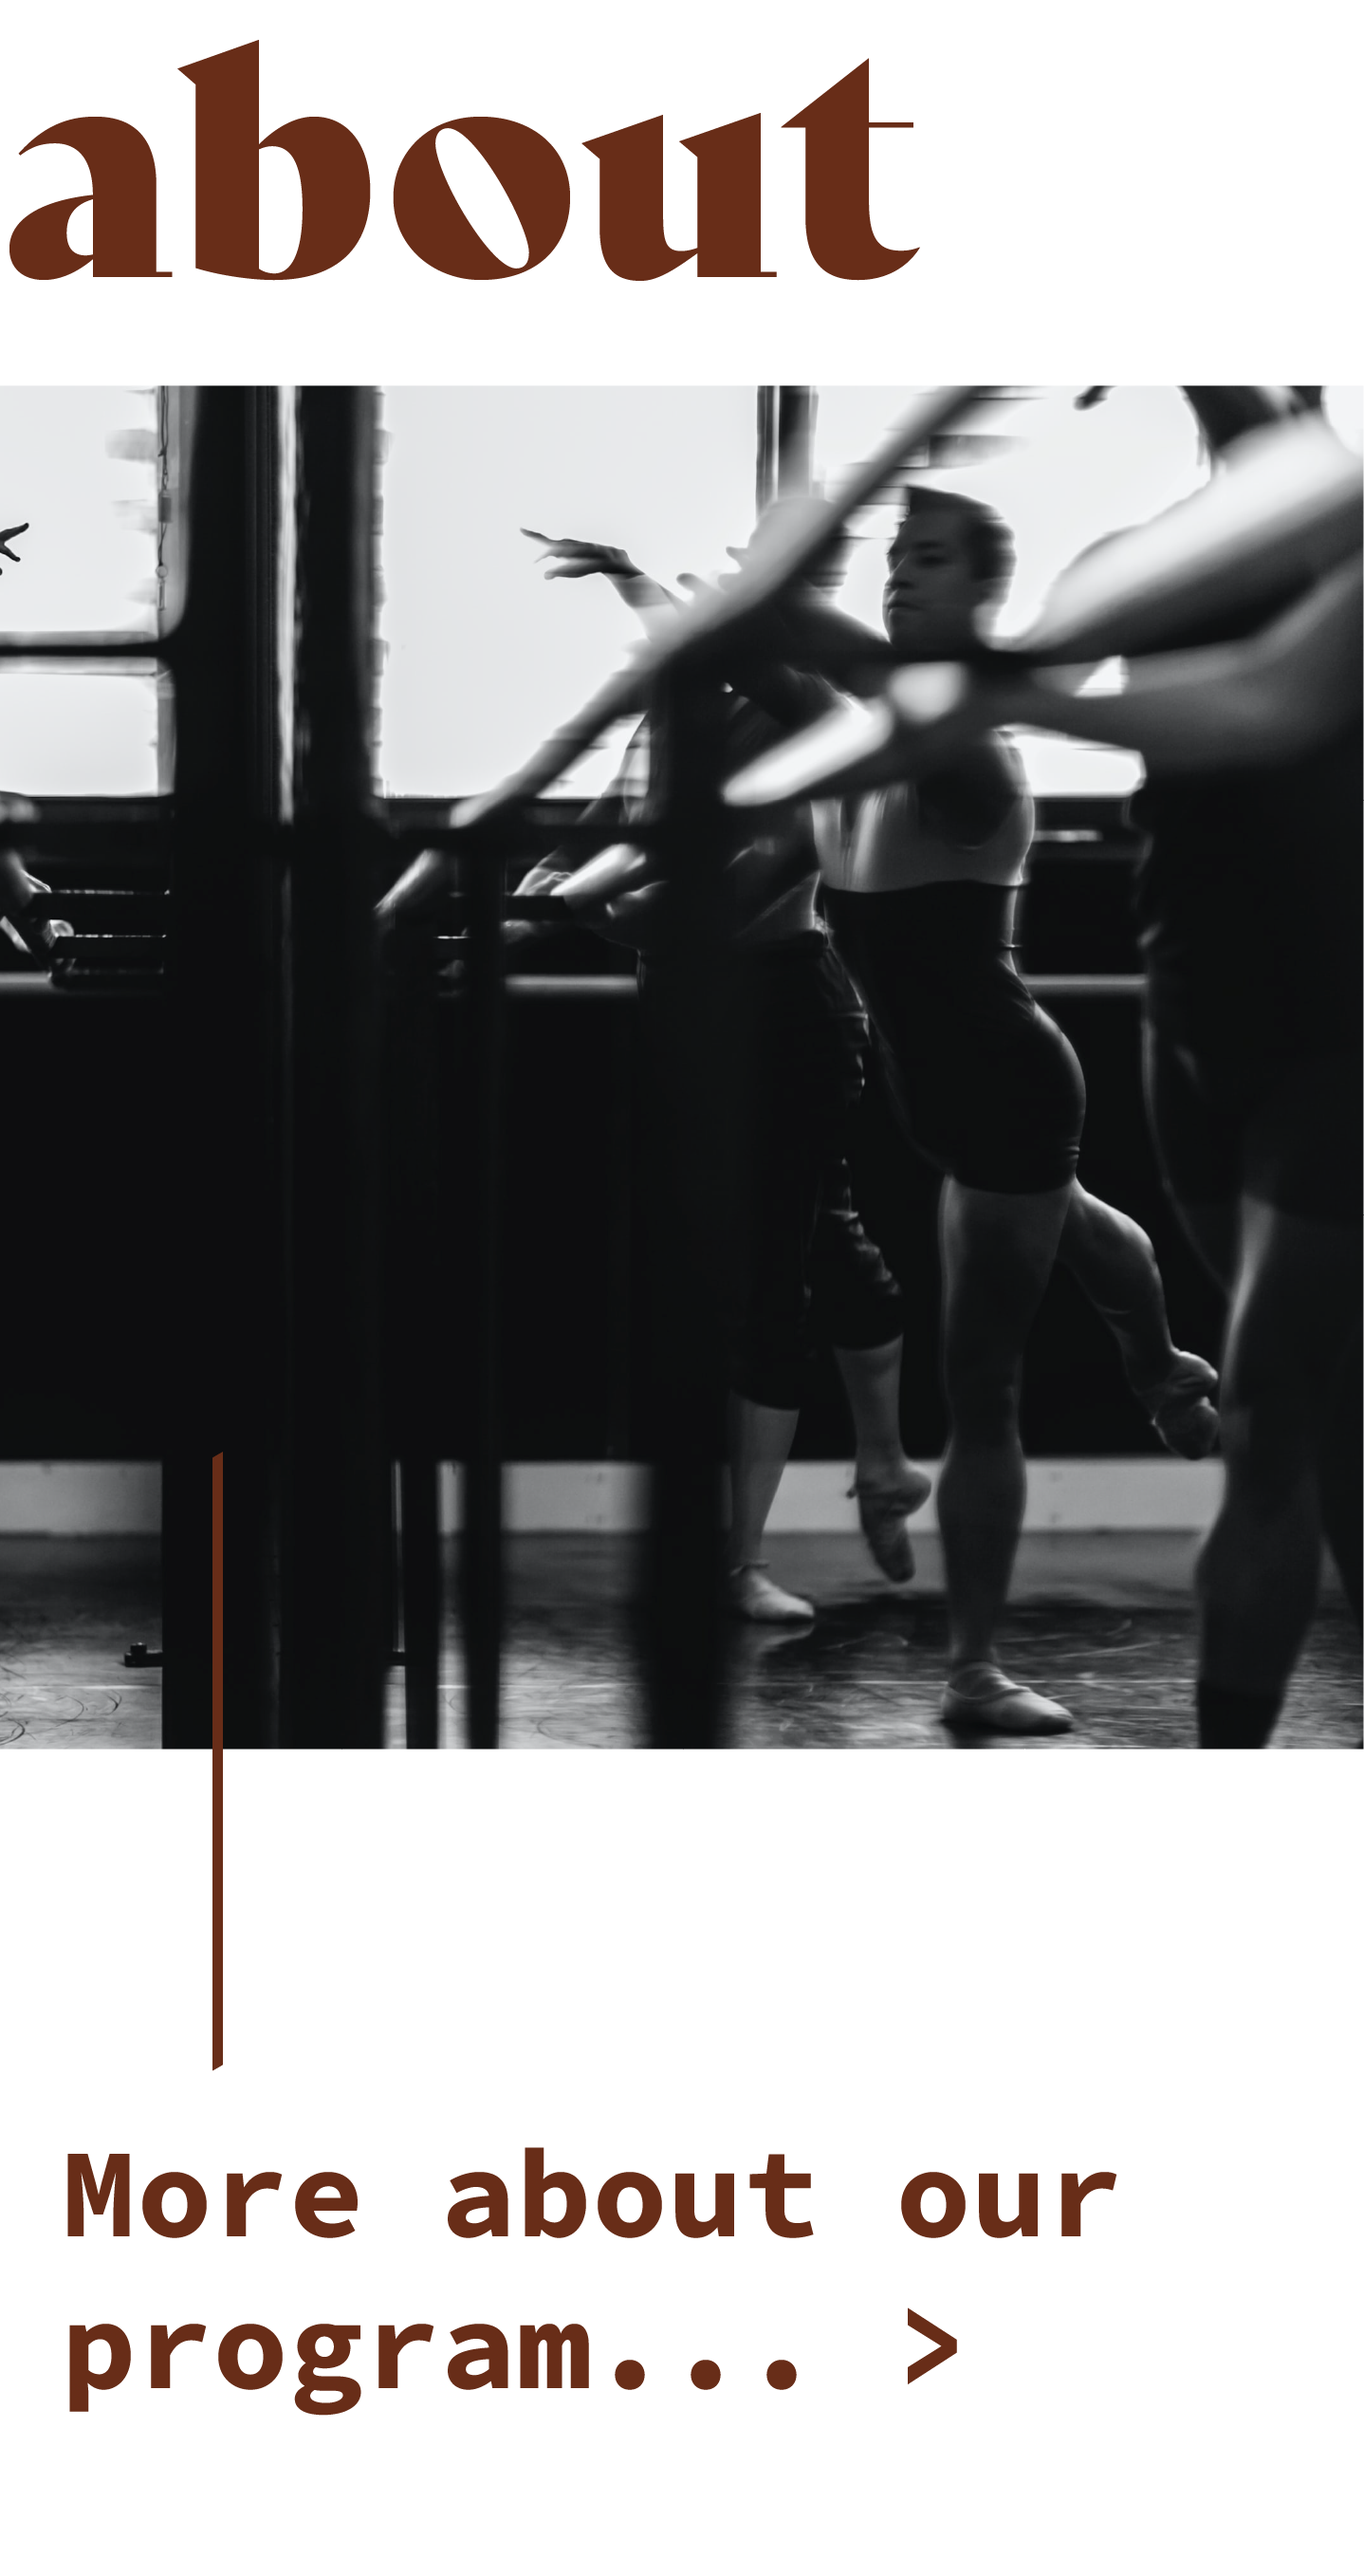
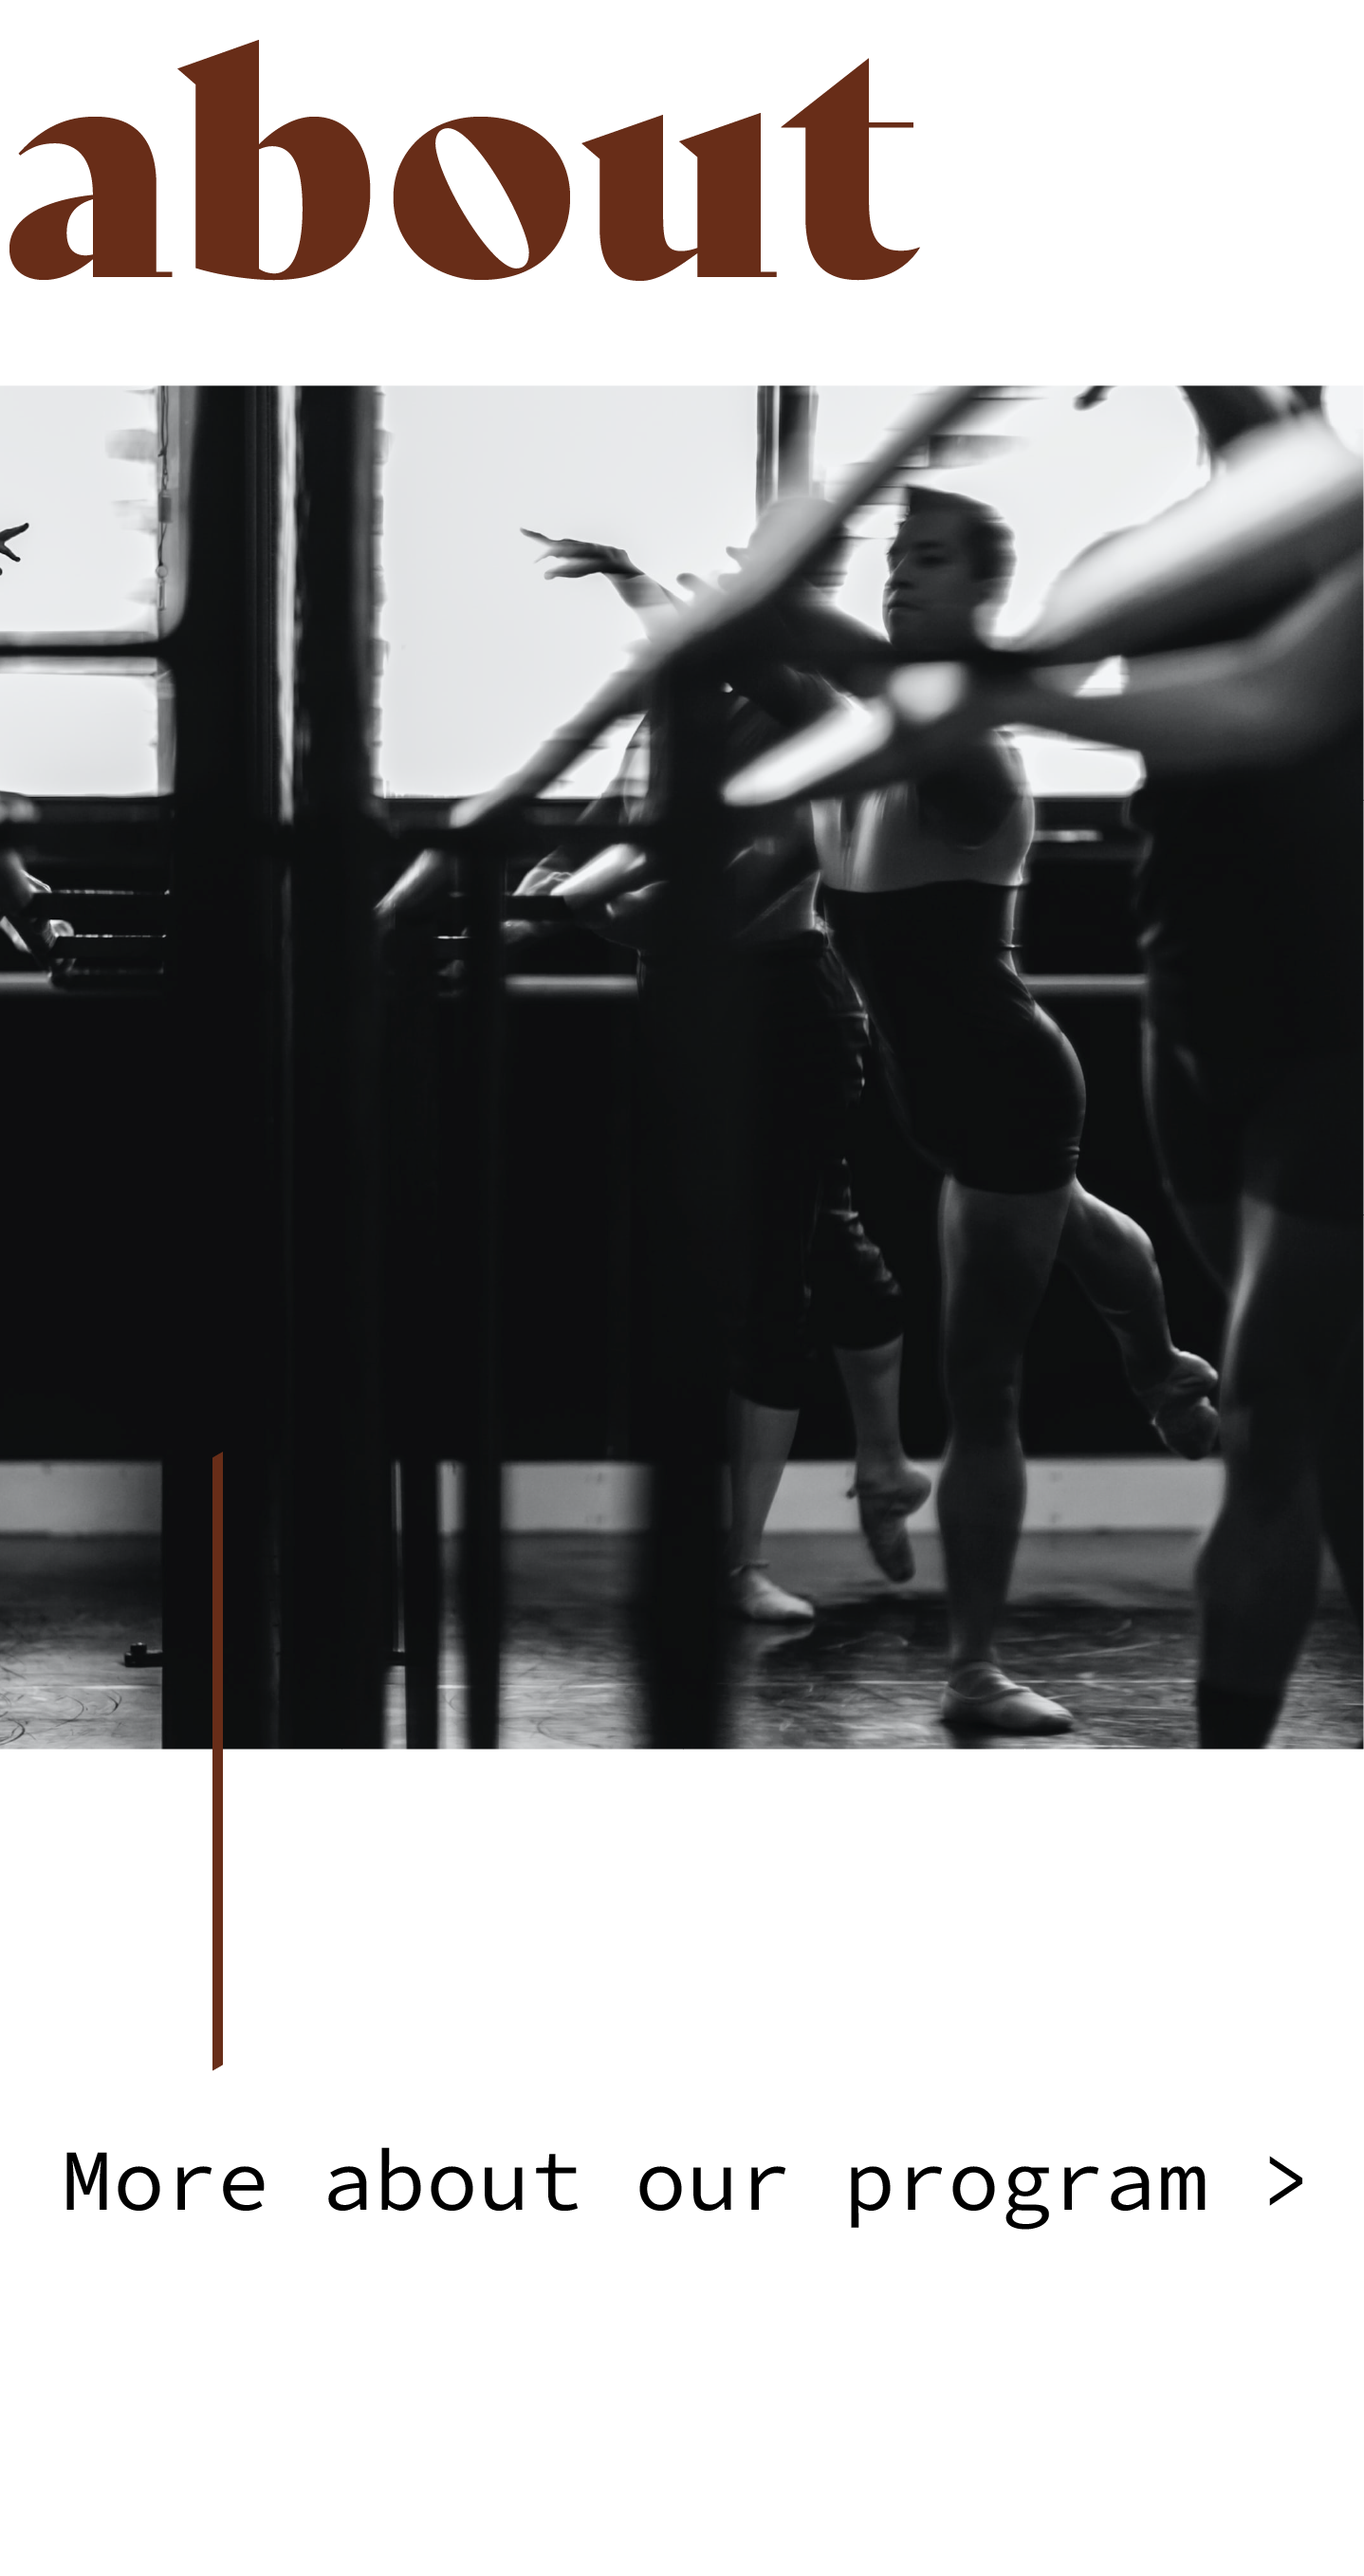
x

diff --git a/about.html b/about.html
@@ -5,12 +5,11 @@
         <meta name="description" content="JMU SMAD 307 Bootstrap website for Seattle Dance Festival">
         <meta name="author" content="Ana Hart">
         <meta name="viewport" content="width=device-width, initial-scale=1.0">
-        <title>Seattle Dance Festival</title>
+        <title>About SDF</title>
 
         <!--text library -->
         <link rel="stylesheet" href="https://use.typekit.net/dru5kna.css">
         <link rel="stylesheet" href="https://use.typekit.net/dru5kna.css">
-
 
            <!-- Add icon library -->
         <link rel="stylesheet" href="https://cdnjs.cloudflare.com/ajax/libs/font-awesome/4.7.0/css/font-awesome.min.css">
@@ -22,14 +21,14 @@
 
 <body>
 <div class="container">
-	<header class="row">
-    	<div class="col-md-3">
+    <header class="row">
+        <div class="col-md-3">
         
-       		<img src="images/sdflogox.png" alt="Seattle Dance Festival Logo with pink circle and black lettering" class="img-fluid" >      
+            <img src="images/sdflogox.png" alt="Seattle Dance Festival Logo with pink circle and black lettering" class="img-fluid" >      
         </div>   <!-- end div header left - logo -->
         
         <nav class="col-md-9">
-        	
+            
             <ul class="nav justify-content-end">
                 <li class="nav-item">
                     <a class="nav-link active" href="index.html" >HOME</a>
@@ -55,13 +54,14 @@
         </nav> <!-- end nav header right -->
         </header>
     </div> <!-- end div row 1 -->
-	
-	<header class="row">
+    
+    <header class="row">
             <div class="col-md-12"> 
                   <div class="container">
-                    <img class="img-fluid" src="images/sdfwebbanner.png" alt="SDF Home banner">
+                    <img class="img-fluid" src="images/aboutpg.png" vspace="30" alt="SDF Home banner">
                   </div>
-                </div>
+               
+        </div> 
     <!--end div banner -->
      <!--end row banner -->
     <!-- end div row 2 -->
@@ -81,8 +81,8 @@
 
  <div class="row">
         <div class="col-md-5 offset-md-1">
-        <p style="font-size:1.5vw;"><strong>DATES:</strong> sunday-saturday, JUNE 21, 2020-JUNE 27, 2020
-        10am-4:30pm (includes sunday showing from 2-4pm)</p>
+        <h1 style="font-size:1.5vw;"><strong>DATES:</strong> sunday-saturday, JUNE 21, 2020-JUNE 27, 2020
+        10am-4:30pm (includes sunday showing from 2-4pm)</h1>
 
         <p style="font-size:1.5vw;"><strong>REQUIRED MATERIALS:</strong> submit resume, headshot, video sample, required application fee of $20</p>
             <p style="font-size:1.5vw;"> submit all materials to admin@sdf.com.</p>
@@ -106,8 +106,8 @@
 </div>
 
 
-	<div class="row">
-    	<div class="col-sm-4 offset-md-0">
+    <div class="row">
+        <div class="col-sm-4 offset-md-0">
             <div class="container-sm">
                     <a href= html/about.html><img class="img-fluid"  src="images/sdfabout.png" vspace="100" alt="SDF about image of dance class"></a>       
       </div>
@@ -117,7 +117,7 @@
             <div class="container-sm">
                      <a href= html/faculty.html><img class="img-fluid" src="images/sdffaculty.png" vspace="100" alt="SDF faculty image"></a>
                   
-        	
+            
         </div>
         </div> <!-- end section 2 of 3 -->
         
@@ -140,8 +140,8 @@
     <a href="https://www.youtube.com/channel/UCMpbLWtHczh6zMphffGiAgQ?view_as=subscriber" class="fa fa-youtube"></a>
 
     <div class="row gray">
-    	<div class="col-md-2 offset-md-0">
-        	<a class="c-copy"><p class="text-uppercase"><small>Design by Ana Hart.</small></p></a></div>
+        <div class="col-md-2 offset-md-0">
+            <a class="c-copy"><p class="text-uppercase"><small>Design by Ana Hart.</small></p></a></div>
         <div class="col-md-3 offset-md-7">
             <a class="c-copy"><p class="text-uppercase"><small>&copy; 2020 ANA HART. All rights reserved.</small></p></a></div>
         </div> <!-- end div left footer -->

diff --git a/css/custom.css b/css/custom.css
@@ -1,22 +1,63 @@
 @charset "UTF-8";
 /* Add your custom CSS declarations below  */
 
+header {
+	font-family: 'Andale Mono', sans-serif;
+	font-size: 100%;
+	text-align: right;
+	line-height: 175%;
 
+}
 
-body { background: url(images/back.png) no-repeat 0px;  }
+body {
+  font-family: 'Trebuchet MS', sans-serif;
+  font-size: 100%;
+  text-align: left;
+  line-height: 175%;
+  margin: 0 10% 0;
+  background: #Fff;
+}
+
+h1{
+	font-family: bely-display, sans-serif;
+	font-weight: 400;
+	font-style: normal;
+	text-align: left;
+	padding-top: 55px;
+}
+
+h2{
+	font-family: source-code-pro, monospace;
+	font-weight: 300;
+	font-style: normal;
+}
+
+footer{
+	font-family: 'Trebuchet MS', sans-serif;
+  	font-size: 100%;
+  	text-align: center;
+  	line-height: 175%;
+  	margin-top: 100px
+  	color: #682d18;
+}
 
 a, a:hover { color: #682d18; }
 
 
 
 .nav-pills .show > .nav-pills .nav-link .nav-justified .btn {
+    font-family: 'Andale Mono', sans-serif;
     background-color: #ffe7dc;
     color: #682d18;	
 }
 
+.btn-lg{
+	font-family: 'Andale Mono', sans-serif;
+}
+
 
 .nav-link.active {
-    color: #ffe7dc;
+    color: #682d18;
 	
 }
 
@@ -25,7 +66,11 @@ a, a:hover { color: #682d18; }
 }
 
 .gray {
-	background-color: #ffe7dc;
+	background-color: none;
+	justify-content: right;
+	margin-top: 50px;
+	color: #682d18;
+
 }
 
 
@@ -33,5 +78,53 @@ a, a:hover { color: #682d18; }
   margin-top: 0 !important;
 }
 
+/* copyright section */
+.c-copy {
+	padding: 20px;
+  font-size: 10px;
+  width: 50px;
+  text-align: center;
+  text-decoration: none;
+  margin: 5px 2px;
+  color: #682d18;
+
+}
+
+
+/* Style all font awesome icons */
+.fa {
+  padding: 20px;
+  font-size: 30px;
+  width: 50px;
+  text-align: right;
+  text-decoration: none;
+  margin: 5px 2px;
+}
+
+/* Add a hover effect if you want */
+.fa:hover {
+  opacity: 0.7;
+
+}
+
+/* Set a specific color for each brand */
+
+/* Facebook */
+.fa-facebook {
+  background: #ffff;
+  color: #682d18;
+}
+
+/* Instagram */
+.fa-instagram {
+  background: #ffff;
+  color: #682d18;
+}
+
+/* YouTube */
+.fa-youtube {
+  background: #ffff;
+  color: #682d18;
+}
 
 
